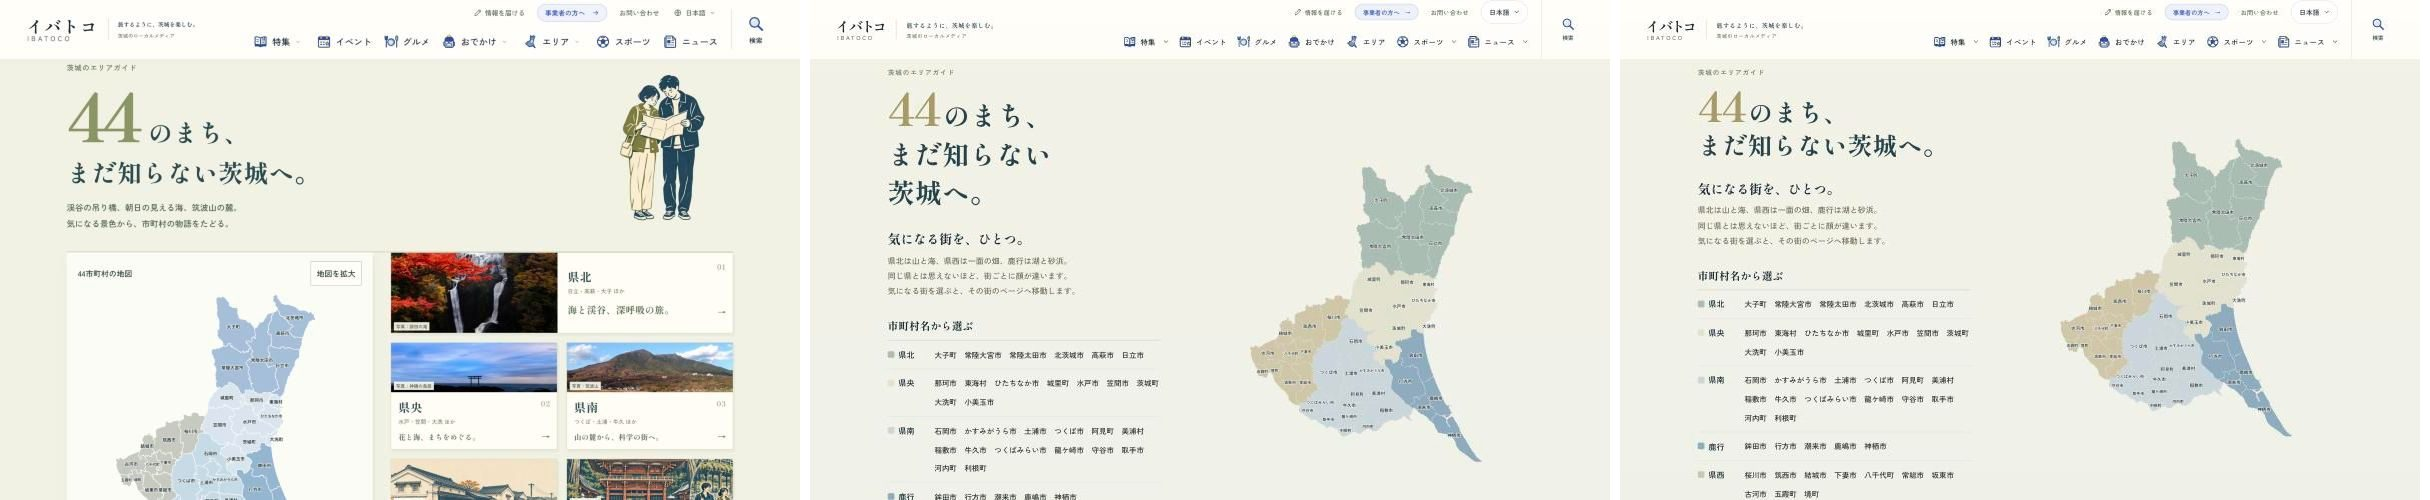
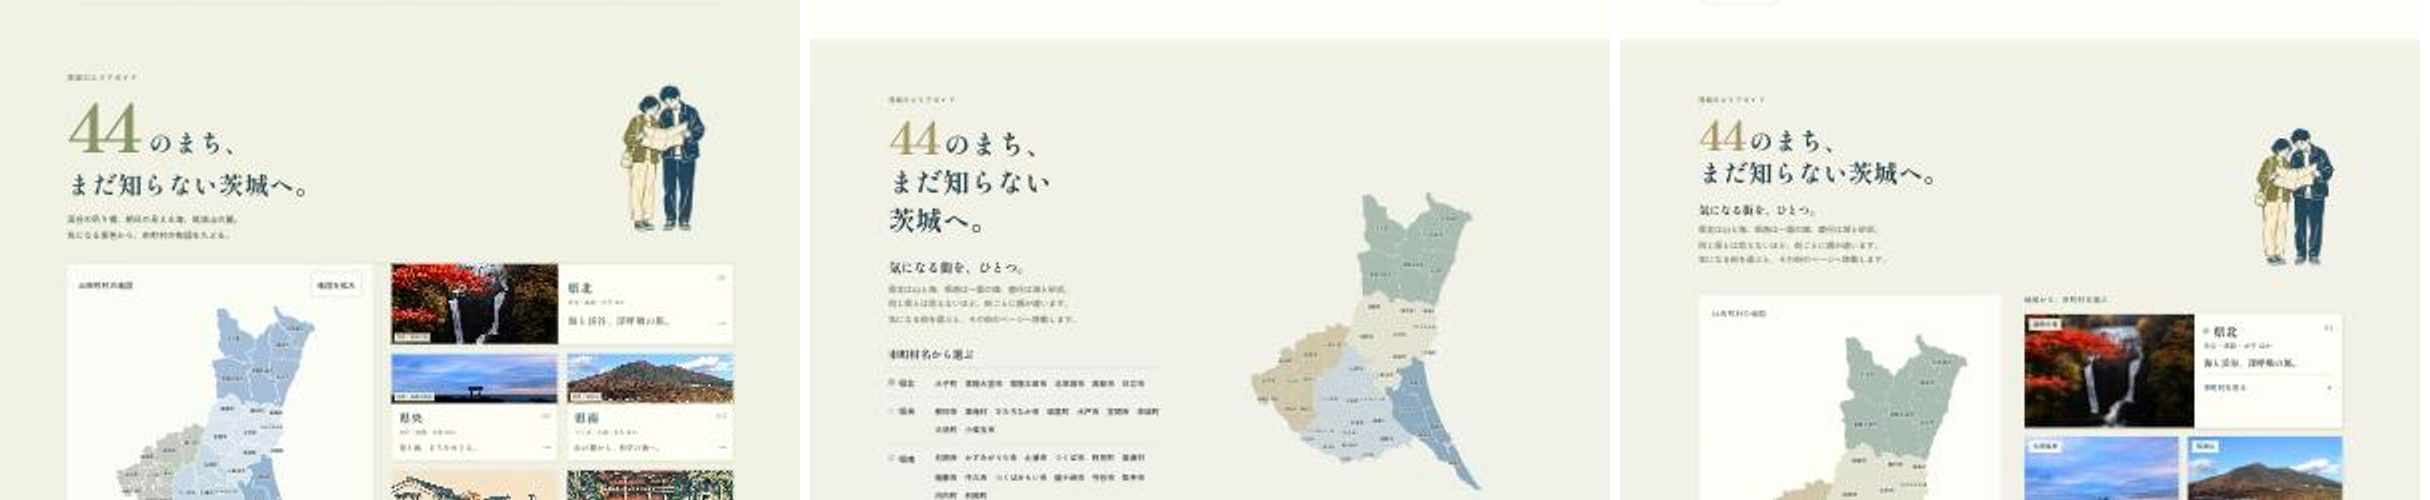
design: TOPと/area/の44市町村の地図を提出版v42の配置（見出しの下に地図カードと5地域カード）に合わせ、1文字行を直す（#532 A）
- 5地域カード（写真・挿絵、代表の街、各市町村への直リンク）を HomeAreaExplorer に置き、TOPと/area/で共用
- 地図の境界・地名・分類・44市町村の直リンクは変更なし
- /area/ の表紙を提出版の字級に、スマホは説明文の右に挿絵
- TOP 761〜1100px の1文字行（観戦・事業者の質問）と小さすぎる注記を修正

diff --git a/src/data/seo-changes.ts b/src/data/seo-changes.ts
@@ -53,11 +53,11 @@ export const SEO_CHANGES: SeoChange[] = [
     date: '2026-11-08',
     url: '/',
     kind: 'on-page',
-    change: 'TOPの見出しの字級・余白、ニュース欄の配置（PCは見出しを左の柱、スマホは画像＋文字の横並び）、つくった理由・取材と編集・事業者導線の字級を提出版v42に合わせる（#533）',
+    change: 'TOPの見出しの字級・余白、ニュース欄の配置（PCは見出しを左の柱、スマホは画像＋文字の横並び）、つくった理由・取材と編集・事業者導線の字級、44市町村の地図と5地域パネルの配置（見出しの下に地図カードと地域カードを並べる）を提出版v42に合わせる（#533）',
     queries: [],
     commit: '8de7909',
     experimentType: 'template',
-    note: 'Issue #532（11月8日オーナー依頼）のA。title・description・canonical・H1・JSON-LD・リンク先・計測は維持（全824ページのSEO差分0件）。テーマ6件・つくった理由・取材と編集3項目・事業者導線・44市町村の直リンクは残す。公開後を新しい28日間の観測起点とする。過去の記録は変更しない。',
+    note: 'Issue #532（11月8日オーナー依頼）のA。title・description・canonical・H1・JSON-LD・計測は維持。全824ページのSEO差分は / だけで、地域カードの写真・挿絵6点と写真クレジットの外部リンク3件（Wikimedia Commons）を追加。テーマ6件・つくった理由・取材と編集3項目・事業者導線・44市町村の直リンクは残す。公開後を新しい28日間の観測起点とする。過去の記録は変更しない。',
   },
   {
     id: '20261108-home-v42-journey',
